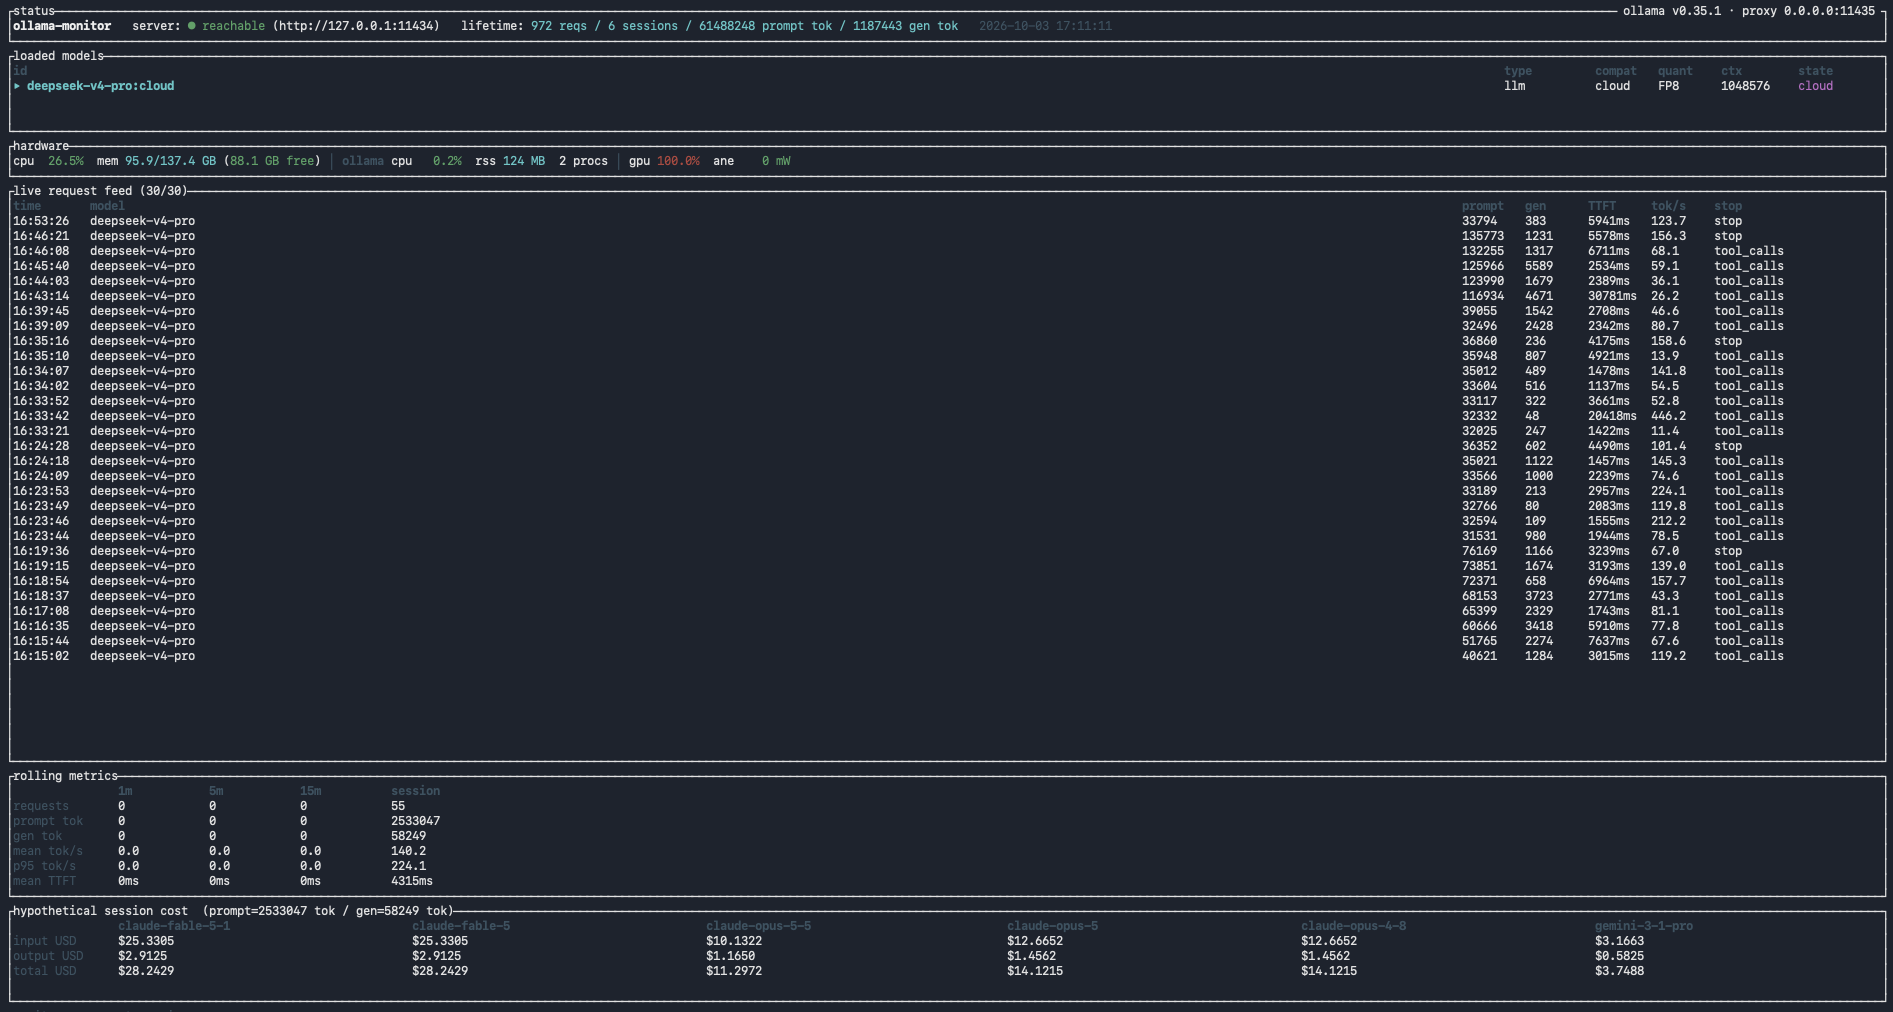
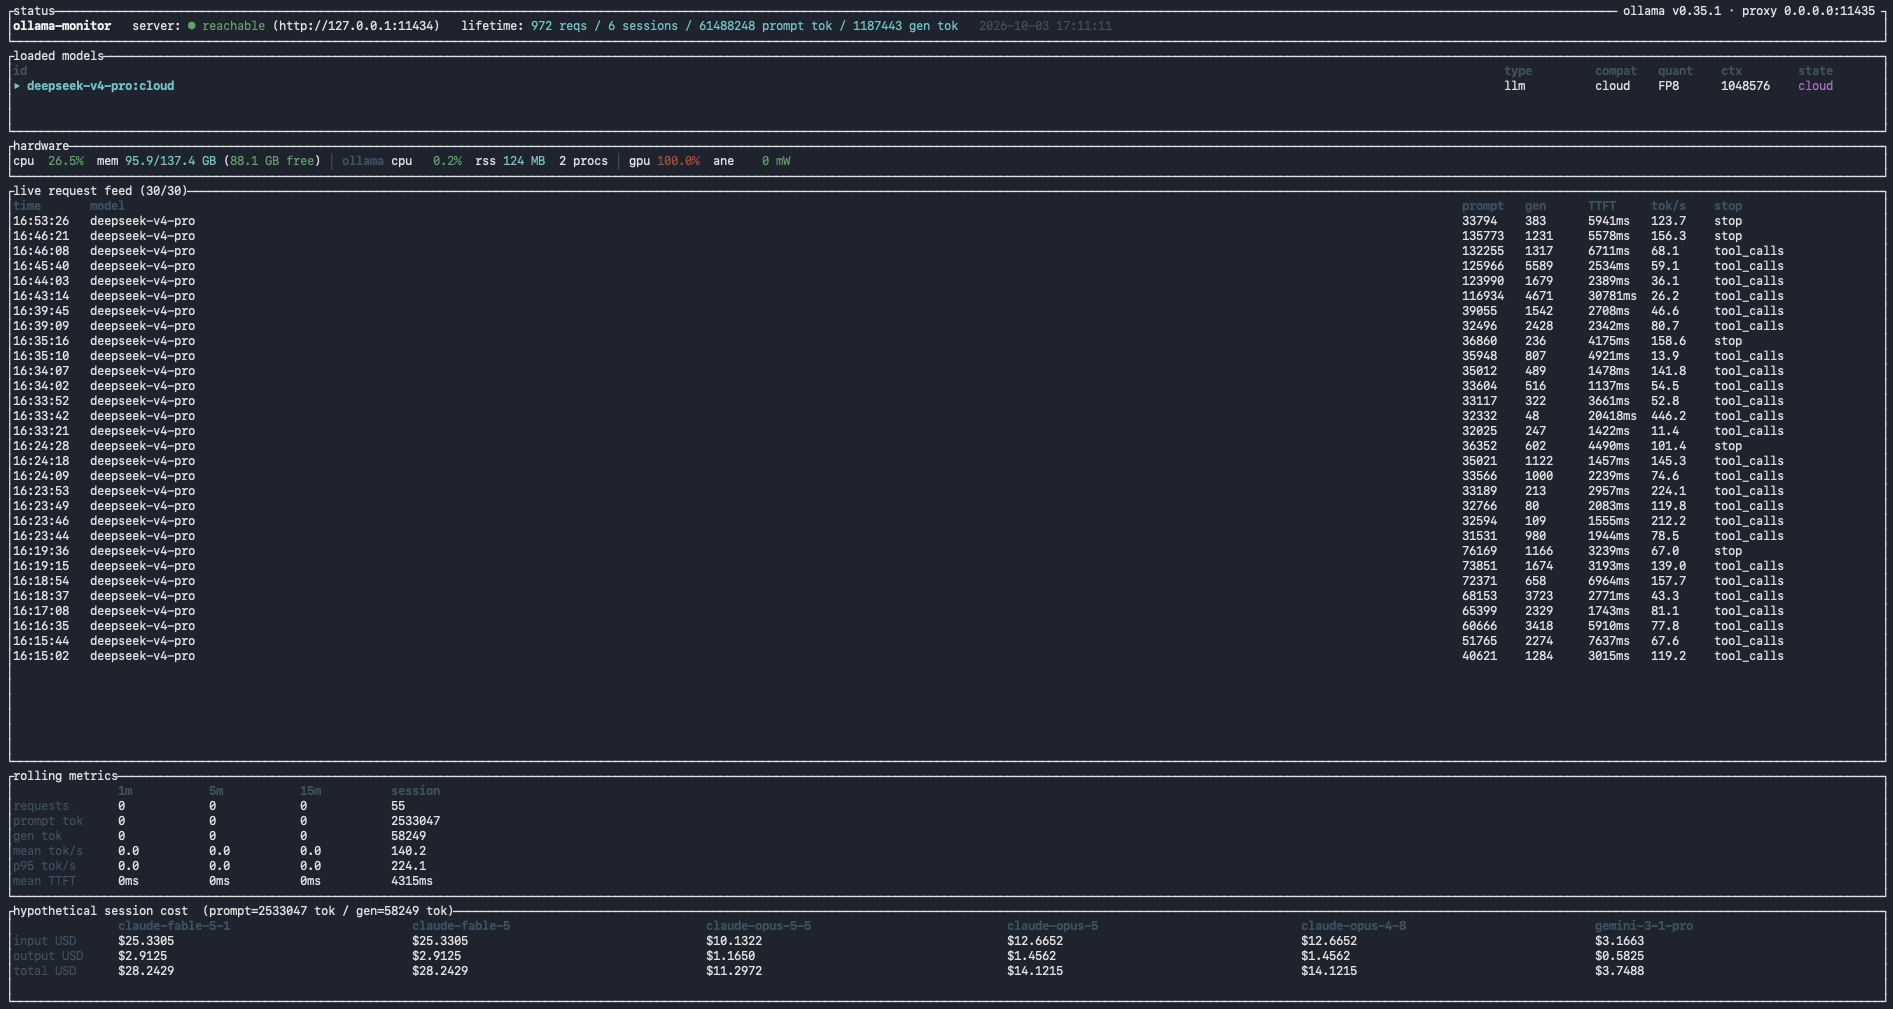
Cross-link LMS-Monitor, crop README screenshot
- README and ARCHITECTURE link the sibling repo; Cargo.toml gains a
  repository field
- Screenshot cropped to end at the cost panel instead of mid-footer

Changed region(s): [[0.0, 0.7374, 0.9974, 1.0], [0.0, 0.1229, 0.9974, 0.6759], [0.748, 0.1843, 0.935, 0.6759]]

diff --git a/README.md b/README.md
@@ -143,7 +143,7 @@ cargo test live_ollama -- --ignored --nocapture   # render the models panel from
 
 CI ([`.gitlab-ci.yml`](.gitlab-ci.yml)) runs the same checks on Linux. [ARCHITECTURE.md](ARCHITECTURE.md) covers the module layout, data flow and design decisions.
 
-Ollama-Monitor shares its dashboard with LMS-Monitor, a sibling project for [LM Studio](https://lmstudio.ai).
+Ollama-Monitor shares its dashboard with [LMS-Monitor](https://github.com/Ward-Software-Defined-Systems/LMS-Monitor), a sibling project for LM Studio.
 
 ## License
 

diff --git a/ARCHITECTURE.md b/ARCHITECTURE.md
@@ -169,7 +169,7 @@ The `cpu_power` sampler is included alongside `ane_power` because on M1/M4 Macs 
 
 ## TUI
 
-`ratatui` 0.30 + `crossterm` 0.29. A port of LMS-Monitor's TUI: same layout (heights fit 120×36 minimum), columns, colours and keys. Top-to-bottom:
+`ratatui` 0.30 + `crossterm` 0.29. A port of [LMS-Monitor](https://github.com/Ward-Software-Defined-Systems/LMS-Monitor)'s TUI: same layout (heights fit 120×36 minimum), columns, colours and keys. Top-to-bottom:
 
 | panel | rows | widget |
 |---|---|---|
